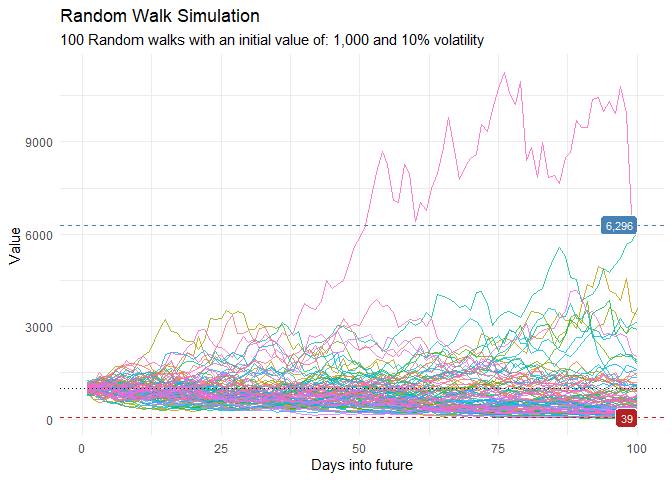
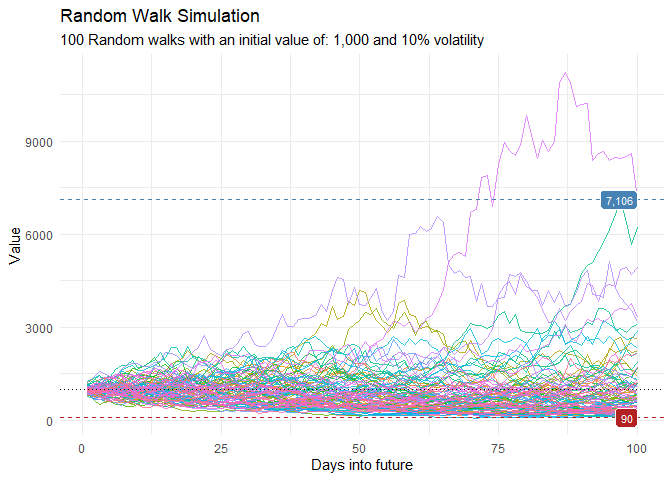
update readme

diff --git a/README.md b/README.md
@@ -46,15 +46,15 @@ library(ggplot2)
 df <- ts_random_walk()
 
 head(df)
-#> # A tibble: 6 x 4
+#> # A tibble: 6 × 4
 #>     run     x        y cum_y
 #>   <dbl> <dbl>    <dbl> <dbl>
-#> 1     1     1  0.0320  1032.
-#> 2     1     2 -0.182    844.
-#> 3     1     3 -0.0834   773.
-#> 4     1     4  0.00564  778.
-#> 5     1     5 -0.00322  775.
-#> 6     1     6  0.00357  778.
+#> 1     1     1  0.0216  1022.
+#> 2     1     2 -0.0666   954.
+#> 3     1     3  0.00278  956.
+#> 4     1     4 -0.0565   902.
+#> 5     1     5 -0.0701   839.
+#> 6     1     6 -0.0159   826.
 ```
 
 Now that the data has been generated, lets take a look at it.
